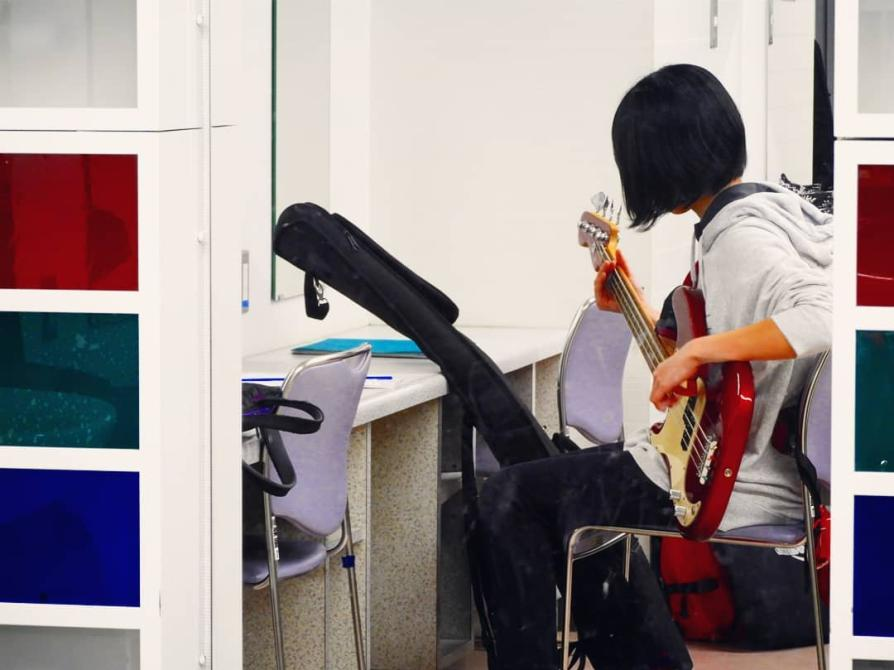
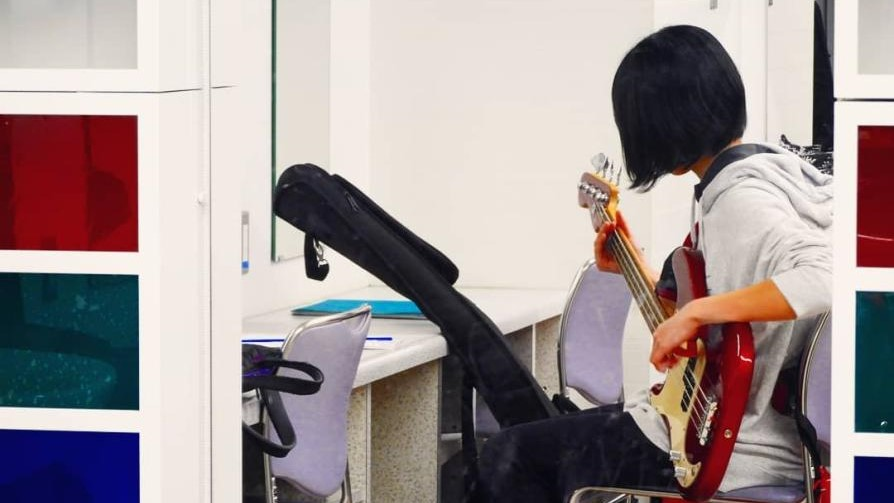
画像差し替えとか

diff --git a/About.html b/About.html
@@ -21,8 +21,8 @@
 
 <div class="container">
 <!-- サイトの中身部分 -->
-<img src="picture/Aboutpicture/About.png" style="padding-top: 60px; padding-left: 3%; padding-bottom: 60px;">
-<img src="picture/Aboutpicture/bass.jpg">
+<img src="picture/Aboutpicture/About.png" style="padding-top: 60px; padding-bottom: 60px;">
+<img src="picture/Aboutpicture/bass.jpg" style="text-align: center;" class="bass">
 
 <div class="blocktext">
 <p class="mozi">
@@ -31,13 +31,13 @@
 <p class="mozi">
   <strong>BIO</strong><br>
   2001.12 - 千葉県生まれ<br>
-  2020.04 - 福岡の大学生として活動中<br>
+  2020.04 - 福岡の大学生として日々奔走中<br>
   2020.09 - 福岡の某営業会社で飛び込み営業を行う<br>
-  2021.06 - 株式会社Hack'zのインターン生として日々奔走中<br>
+  2021.06 - 株式会社Hack'zに運営見習い生として所属中<br>
 </p>
 <p class="mozi">
   <strong>like</strong><br>
-  -nyanyannyaさん/ドクターファンクビート先生<br>
+  - nyanyannyaさん/ドクターファンクビート先生<br>
   <link rel="https://www.youtube.com/channel/UC13cTkDWK6o_TYL2tdtpJHg">
 </p>
 </div>

diff --git a/css/About.css b/css/About.css
@@ -66,10 +66,12 @@ ul.footer-menu li {
 p.mozi{
   color :#ffffff;
   text-align: justify;
-  margin: 60px 60px 0px;
-  padding: 0px 20px;
+  margin-top: 60px ;
 }
 .container{
-  max-width: 670px;
+  max-width: 894px;
   margin: 0 auto;
+}
+img.bass{
+  border: 2px solid #8f9299;
 }
